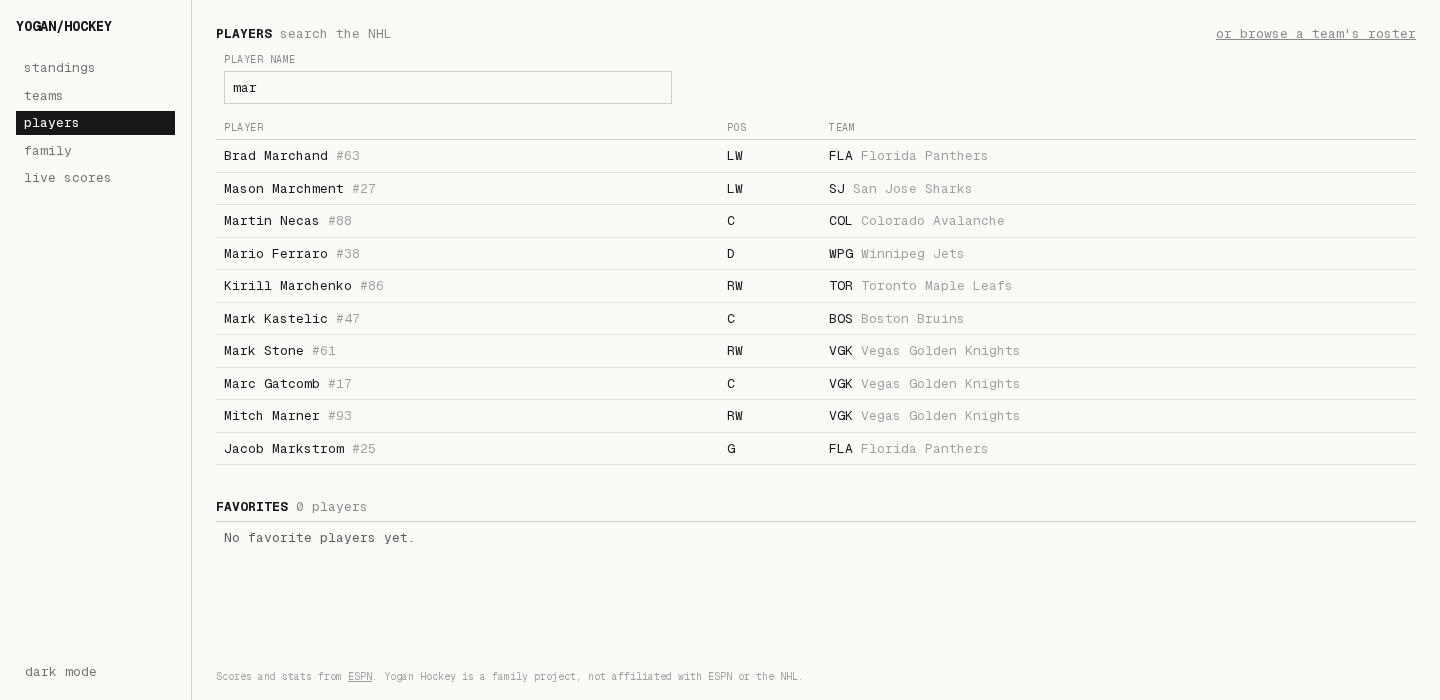
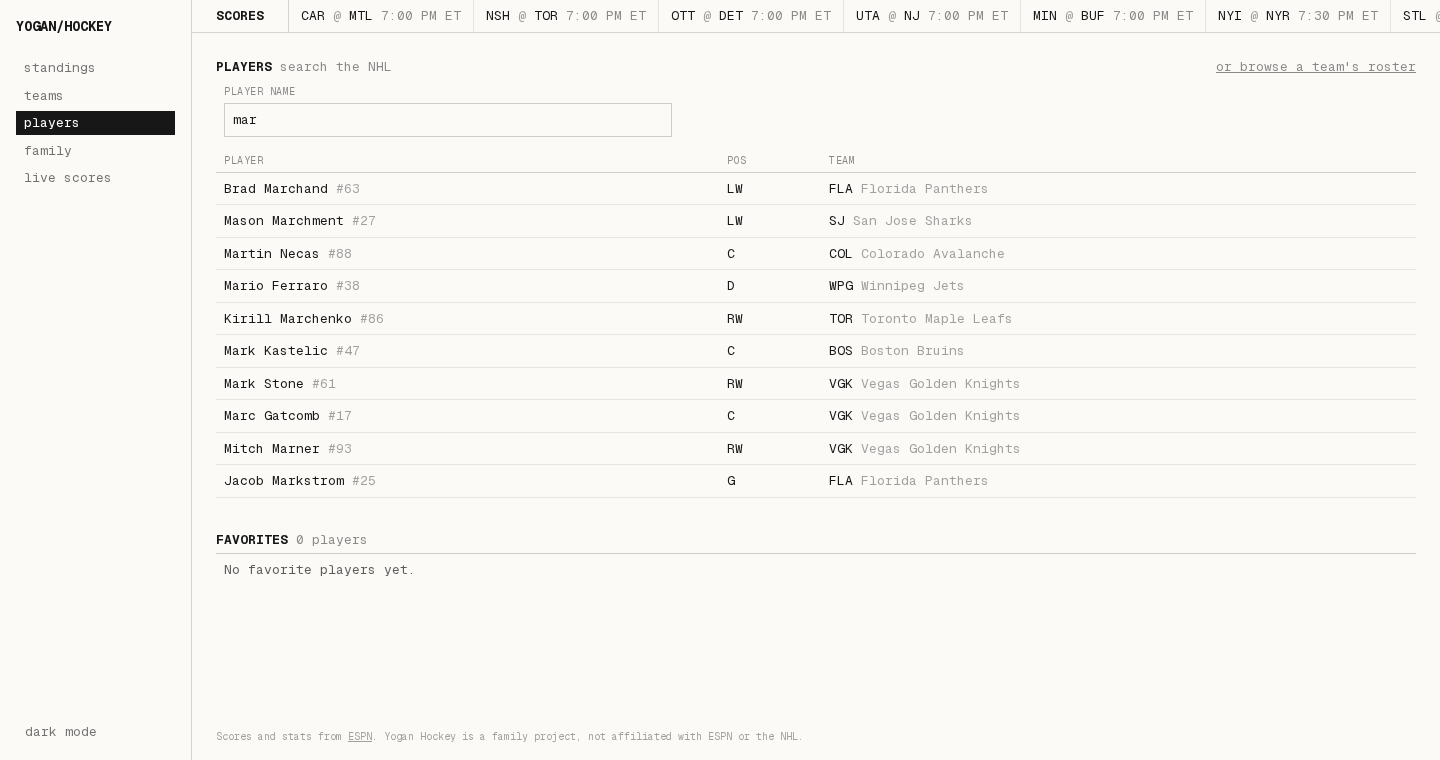
Players: after the rebase (#44)
The search box starts anew from the URL rather than from a key, so the refresh
the shell makes on a final leaves the typing alone; team links come from the
shared teamHref; screenshots retaken with the score ticker in the shell.

diff --git a/apps/web/components/players/player-sections.tsx b/apps/web/components/players/player-sections.tsx
@@ -19,14 +19,13 @@ import {
   type SeasonView,
   type ShownColumn,
 } from "../../lib/player-view";
+import { teamHref } from "../nhl/team-name";
 
 /*
  * The parts of a player page, in the ledger's language: a header line, then one dense table per
  * subject. Each takes what `lib/player-view.ts` works out, so a player who is not ESPN's (the
  * Tracked Player's page, and the fictional player, of #46) is drawn by the same parts.
  */
-
-const teamHref = (teamId: string) => `/nhl/teams/${teamId}`;
 
 /** A stat column's heading, spelled out for a pointer and a screen reader where it is known. */
 function StatColumn({ column }: { column: ShownColumn }) {
@@ -77,7 +76,7 @@ export function PlayerHeader({ profile, action }: { profile: PlayerProfile; acti
             {profile.team ? (
               <>
                 {" · "}
-                <Link href={teamHref(profile.team.id)} className="underline">
+                <Link href={teamHref(profile.team)} className="underline">
                   {profile.team.name}
                 </Link>
               </>
@@ -181,7 +180,7 @@ export function CareerSection({ career }: { career: CareerView }) {
               <LedgerCell className="whitespace-nowrap">{row.season}</LedgerCell>
               {row.team ? (
                 <LedgerCell>
-                  <Link href={teamHref(row.team.id)} prefetch={false} className="hover:underline">
+                  <Link href={teamHref(row.team)} prefetch={false} className="hover:underline">
                     {row.team.abbreviation}
                   </Link>
                 </LedgerCell>
@@ -280,7 +279,7 @@ export function TeamSection({ team }: { team: Team }) {
         <LedgerBody>
           <LedgerRow interactive className="border-t border-t-foreground/20">
             <LedgerCell>
-              <Link href={teamHref(team.id)} className={ledgerRowLink}>
+              <Link href={teamHref(team)} className={ledgerRowLink}>
                 {team.name}
               </Link>{" "}
               <LedgerAside>{team.abbreviation}</LedgerAside>

diff --git a/apps/web/app/players/player-search.tsx b/apps/web/app/players/player-search.tsx
@@ -1,6 +1,7 @@
 "use client";
 
-import { type FormEvent, useId, useRef, useState, useTransition } from "react";
+import { useSearchParams } from "next/navigation";
+import { type FormEvent, useEffect, useId, useRef, useState, useTransition } from "react";
 import { useDebouncedCallback } from "use-debounce";
 import { PlayerLedger } from "../../components/players/player-ledger";
 import { MAX_SEARCH_LENGTH, MIN_SEARCH_LENGTH, searchHref } from "../../lib/player-search";
@@ -51,6 +52,19 @@ export function PlayerSearch({ initial }: { initial: Search }) {
       else if (ticket === asked.current) setSearch({ status: "unavailable", query, players: [] });
     });
   }, TYPING_PAUSE_MS);
+
+  // Arriving by a link (the sidebar, Back) starts the box from that URL. The box's own rewrites
+  // of the address match what is typed, and a refresh of the page (the shell asks for one when a
+  // game goes final) leaves the address alone, so neither disturbs the typing.
+  const urlQuery = (useSearchParams().get("q") ?? "").trim();
+  useEffect(() => {
+    if (urlQuery === typed.current.trim()) return;
+    ask.cancel();
+    asked.current++;
+    typed.current = initial.query;
+    setText(initial.query);
+    setSearch(initial);
+  }, [urlQuery, initial, ask]);
 
   const onType = (value: string) => {
     typed.current = value;

diff --git a/apps/web/app/players/page.tsx b/apps/web/app/players/page.tsx
@@ -25,10 +25,7 @@ export default async function PlayersPage({
             or browse a team's roster
           </Link>
         </SectionHeader>
-        {/* A new key with every render of the page, so arriving by a link (the sidebar, Back)
-            starts the box from this URL. Typing renders nothing here: it calls the action and
-            rewrites the address, so the box keeps its place while it is typed in. */}
-        <PlayerSearch key={crypto.randomUUID()} initial={search} />
+        <PlayerSearch initial={search} />
       </Section>
       <FavoritePlayers />
     </>

diff --git a/docs/agents/build-notes.md b/docs/agents/build-notes.md
@@ -216,7 +216,7 @@ The Worker `yogan-hockey` has been live on `hockey.yogan.dev` since 2026-10-06, 
 - **A Server Action called from a tab older than the last deploy resolves with `undefined`**, without throwing. Each build has a new `x-vinext-rsc-compatibility-id`; vinext's client drops an answer whose id is not its own and hard-navigates to the URL the action was called from. So: treat no answer as a failure, and put what the action was asked into the URL before calling it, so the reload lands on a page the server can render by itself. A rebuild of unchanged code is enough to see it: `pnpm build`, `vite preview`, open the page, build and start again, use the page.
 - **The server half of a file reaches the client if a client component imports it.** `lib/players.ts` imports the cache; a client component may import its types (`import type`) and nothing else. What both sides need at run time lives in `lib/player-search.ts`.
 - **`history.replaceState` changes the URL and fetches nothing** under vinext: no RSC request, no re-render. The search box uses it to keep `?q=` in step with the typing; a reload then renders that search on the server.
-- **A client component keeps its state when only `searchParams` change**, so a link from `/players?q=mar` to `/players` would leave "mar" in the box. Keying it by what the server read is not enough either, once the client has rewritten the URL itself: the server's `""` is the key it already had. `/players` gives the box a new key on every render of the page (`key={crypto.randomUUID()}`), which is safe because typing renders nothing on the server.
+- **A client component keeps its state when only `searchParams` change**, so a link from `/players?q=mar` to `/players` would leave "mar" in the box. A `key` from the server does not cure it: once the client has rewritten the URL itself the server's key is the one it already had, and a key that is new on every render remounts the box on the `router.refresh()` the shell makes when a game goes final. The box reads `useSearchParams()` and, in an effect that also depends on the server's `initial`, starts anew from `initial` when the URL's search is not what is typed (whether the hook follows `replaceState` under vinext was not established; the effect is right either way).
 - **A page that reads nothing from the request and omits `force-dynamic` is cached for a year** in a production build (`x-vinext-cache: HIT`, `s-maxage=31536000`); `pnpm dev` does not show it. Reading `searchParams` makes a page dynamic by itself. Check a new page with `curl -sD - -o /dev/null` against `vite preview`.
 - **`next/link` prefetches every link on screen in a production build**, and the prefetch renders the page: ten search results were ten player pages, thirty ESPN reads, per search. `pnpm dev` does not prefetch, so only a build shows it. Rows of a list take `prefetch={false}`.
 - **A `not-found.tsx` beside a page takes over when the page calls `notFound()`**, inside the shell, with a 404. Its title comes from its own `metadata` export; what `generateMetadata` returned for the page is not used.
